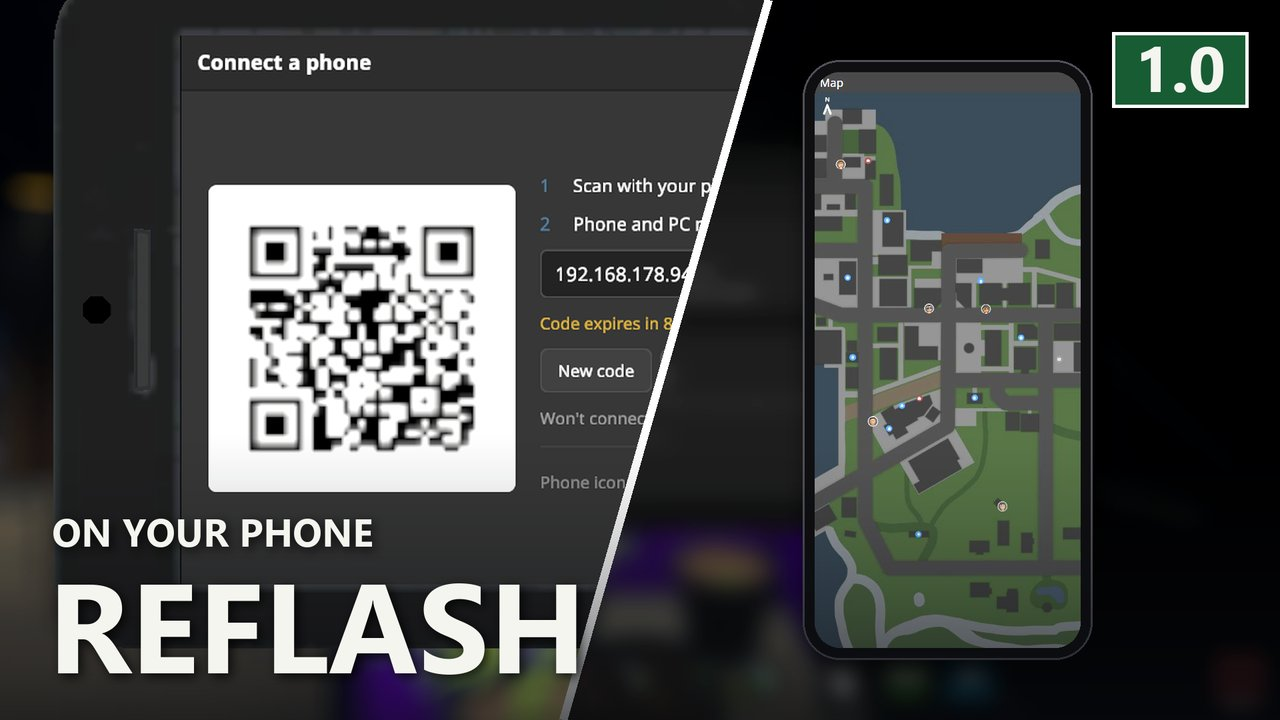
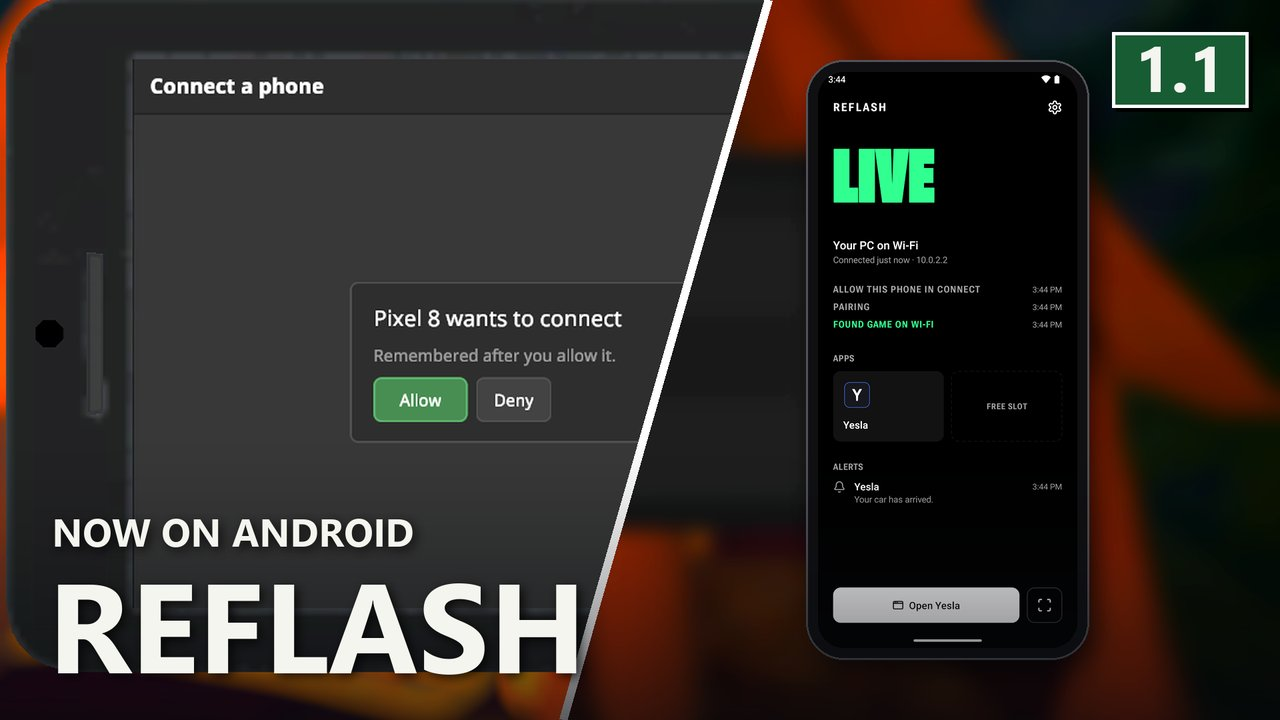
docs(readme): add the android app, allow pairing and new screenshots (#34)

diff --git a/README.md b/README.md
@@ -10,7 +10,7 @@
 >
 > Built on [Sideload](https://github.com/DooDesch-Mods/ScheduleOne-Sideload), which is a hard requirement.
 
-![Version](https://img.shields.io/badge/version-1.0.0-blue)
+![Version](https://img.shields.io/badge/version-1.1.0-blue)
 ![Game](https://img.shields.io/badge/game-Schedule%20I-purple)
 ![MelonLoader](https://img.shields.io/badge/MelonLoader-0.7.3+-green)
 ![Sideload](https://img.shields.io/badge/Sideload-1.33.6+-orange)
@@ -21,7 +21,7 @@
 
 **[Sideload](https://github.com/DooDesch-Mods/ScheduleOne-Sideload)** · **[Support](https://support.doodesch.de/reflash)**
 
-![Reflash: the in game Connect code and the map on a phone](https://raw.githubusercontent.com/DooDesch-Mods/ScheduleOne-Reflash/main/docs/img/header.jpg)
+![Reflash: Connect asking to allow a phone, and the Android app live](https://raw.githubusercontent.com/DooDesch-Mods/ScheduleOne-Reflash/main/docs/img/header.jpg)
 
 ## What you get
 
@@ -41,6 +41,16 @@ Every number is read from the same manager the vanilla screen reads, and every a
 server call the vanilla screen makes, so a delivery ordered from the sofa is a delivery, and co-op sees it
 the way it always did.
 
+## Android app
+
+**Reflash - S1 mod companion** is in a closed test on Google Play.
+[Join the tester group](https://groups.google.com/g/reflash-testers) to get it.
+
+- It finds your game on the Wi-Fi by itself. No code to scan.
+- It opens your mod apps full screen, for example the Yesla car app.
+- When the game stops answering, it waits and reconnects when the game is back.
+- A demo shows Yesla without the game.
+
 ## The in game phone is untouched
 
 Out of the box Reflash adds one icon and changes nothing else. The seven icons on the in game phone still
@@ -59,6 +69,7 @@ and the same switch puts the originals back. It is also `ReplaceVanillaApps` in 
 | On your phone | In the game |
 |---|---|
 | ![Home screen, a customer thread and the delivery shops](https://raw.githubusercontent.com/DooDesch-Mods/ScheduleOne-Reflash/main/docs/img/apps.jpg) | ![Connect with the QR code](https://raw.githubusercontent.com/DooDesch-Mods/ScheduleOne-Reflash/main/docs/img/connect.jpg) |
+| ![The Android app: live, waiting for the game, demo](https://raw.githubusercontent.com/DooDesch-Mods/ScheduleOne-Reflash/main/docs/img/android.jpg) | ![Connect asking to allow a phone](https://raw.githubusercontent.com/DooDesch-Mods/ScheduleOne-Reflash/main/docs/img/allow.jpg) |
 | ![Map, contacts graph and messages](https://raw.githubusercontent.com/DooDesch-Mods/ScheduleOne-Reflash/main/docs/img/map.jpg) | ![The rebuilt map on the in game phone](https://raw.githubusercontent.com/DooDesch-Mods/ScheduleOne-Reflash/main/docs/img/in-game.jpg) |
 
 ## Requirements
@@ -68,7 +79,7 @@ and the same switch puts the originals back. It is also `ReplaceVanillaApps` in 
 | Schedule I | IL2CPP (current Steam public build) |
 | MelonLoader | `0.7.3+` |
 | Sideload | `1.33.6+` ([Thunderstore](https://thunderstore.io/c/schedule-i/p/DooDesch/Sideload/)) |
-| A phone or tablet | any current browser, on any network |
+| A phone or tablet | any current browser, or the Android app, on any network |
 
 ## Installation
 
@@ -82,6 +93,16 @@ Install **Reflash** with r2modman or the Thunderstore app. Sideload comes with i
 2. Drop `Sideload.dll` and `Reflash.dll` into `Schedule I/Mods/`.
 
 ## Pairing a phone
+
+### With the Android app
+
+1. Open **Connect** on the in game phone and press **Turn on**.
+2. Open the app on your phone, on the same Wi-Fi. Connect shows "wants to connect".
+3. Tap **Allow**. The phone gets back in by itself, also after a game restart. **Forget** in Connect removes it.
+
+A phone that asks waits for your answer. Three **Deny** in five minutes stop that address from asking.
+
+### In a browser
 
 1. Open **Connect** on the in game phone and press **Turn on**. The server starts and a QR code appears.
 2. Scan it with your phone's camera.

diff --git a/thunderstore/README.md b/thunderstore/README.md
@@ -8,7 +8,7 @@ a second screen - same save, same moment, while the game keeps the whole monitor
 
 **[Source + docs](https://github.com/DooDesch-Mods/ScheduleOne-Reflash)** · **[Sideload](https://thunderstore.io/c/schedule-i/p/DooDesch/Sideload/)** · **[Support](https://support.doodesch.de/reflash)**
 
-![Reflash: the in game Connect code and the map on a phone](https://raw.githubusercontent.com/DooDesch-Mods/ScheduleOne-Reflash/main/docs/img/header.jpg)
+![Reflash: Connect asking to allow a phone, and the Android app live](https://raw.githubusercontent.com/DooDesch-Mods/ScheduleOne-Reflash/main/docs/img/header.jpg)
 
 [![Polyfill](https://polyfill.doomods.com/badge/reflash.svg)](https://polyfill.doomods.com/mod/reflash)
 
@@ -21,6 +21,10 @@ a second screen - same save, same moment, while the game keeps the whole monitor
 3. That is it. Your phone is showing the phone.
 
 The address is printed under the code as text too, for when a QR code across a room will not read.
+
+**Android app:** Reflash - S1 mod companion is in a closed test on Google Play,
+[join the tester group](https://groups.google.com/g/reflash-testers). It finds your game on the Wi-Fi, you tap
+**Allow** in Connect once, and it gets back in by itself after a game restart.
 
 ## What is on the second screen
 
@@ -50,7 +54,7 @@ same switch puts the originals back.
 ## Screenshots
 
 ![Home screen, a customer thread and the delivery shops](https://raw.githubusercontent.com/DooDesch-Mods/ScheduleOne-Reflash/main/docs/img/apps.jpg)
-![Map, contacts graph and messages](https://raw.githubusercontent.com/DooDesch-Mods/ScheduleOne-Reflash/main/docs/img/map.jpg)
+![The Android app: live, waiting for the game, demo](https://raw.githubusercontent.com/DooDesch-Mods/ScheduleOne-Reflash/main/docs/img/android.jpg)
 
 ## Before you install
 
@@ -61,7 +65,7 @@ same switch puts the originals back.
 - In Same Wi-Fi only mode, Windows Firewall is the usual reason a phone cannot reach it. Allow the game on
   private networks.
 - The companion is off until you press the button in Connect, and nothing can use it without the code on
-  screen. Installing the mod opens no port.
+  screen or your **Allow**. Installing the mod opens no port.
 
 ## Settings
 
